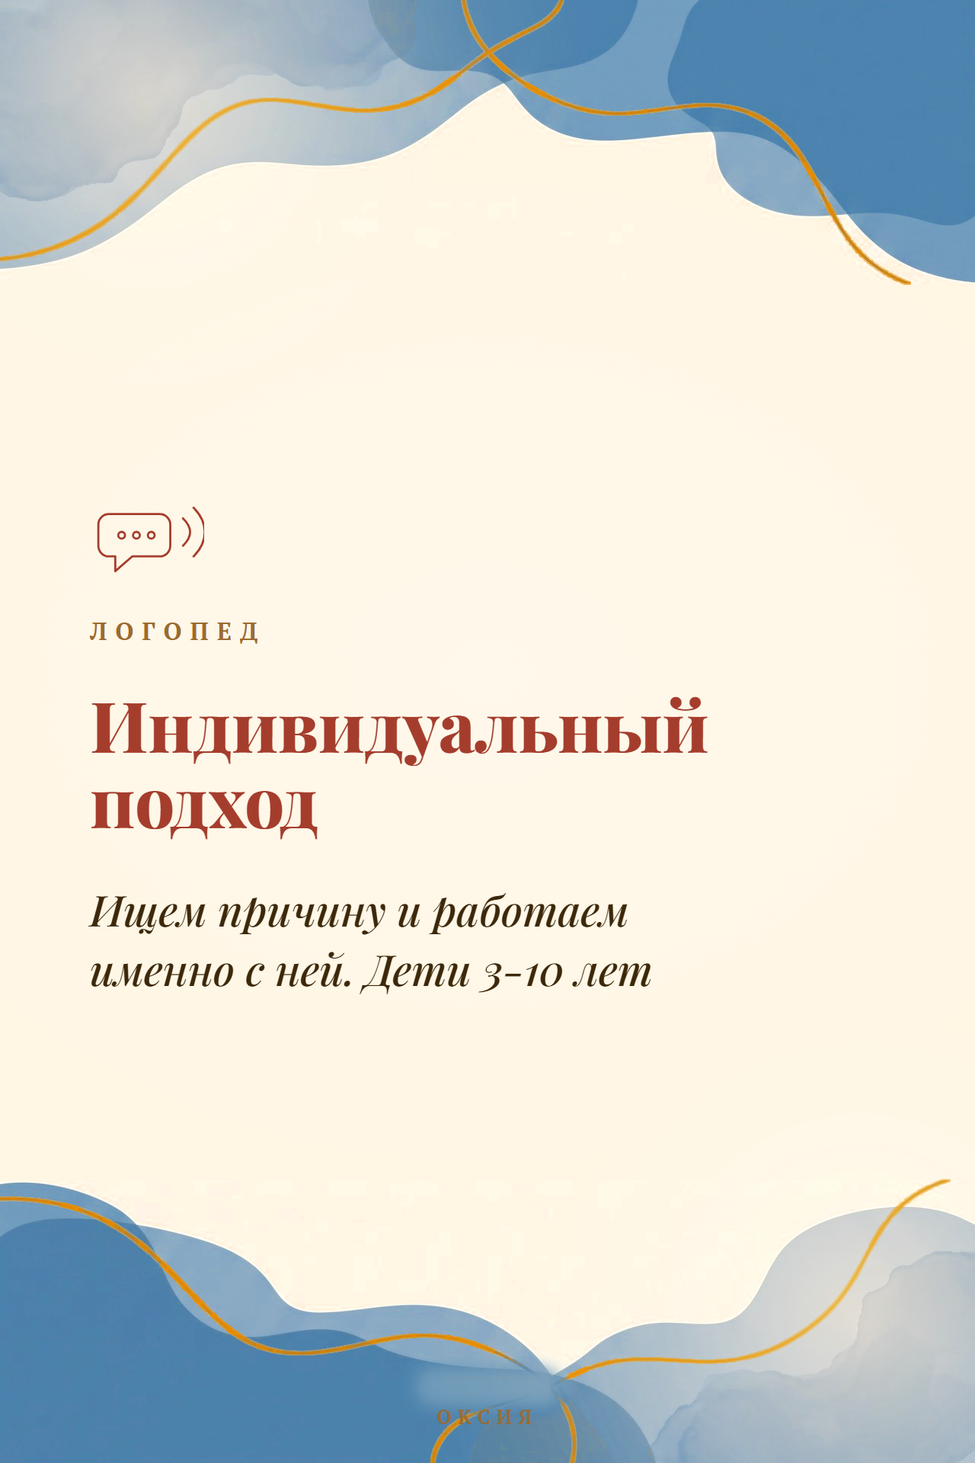
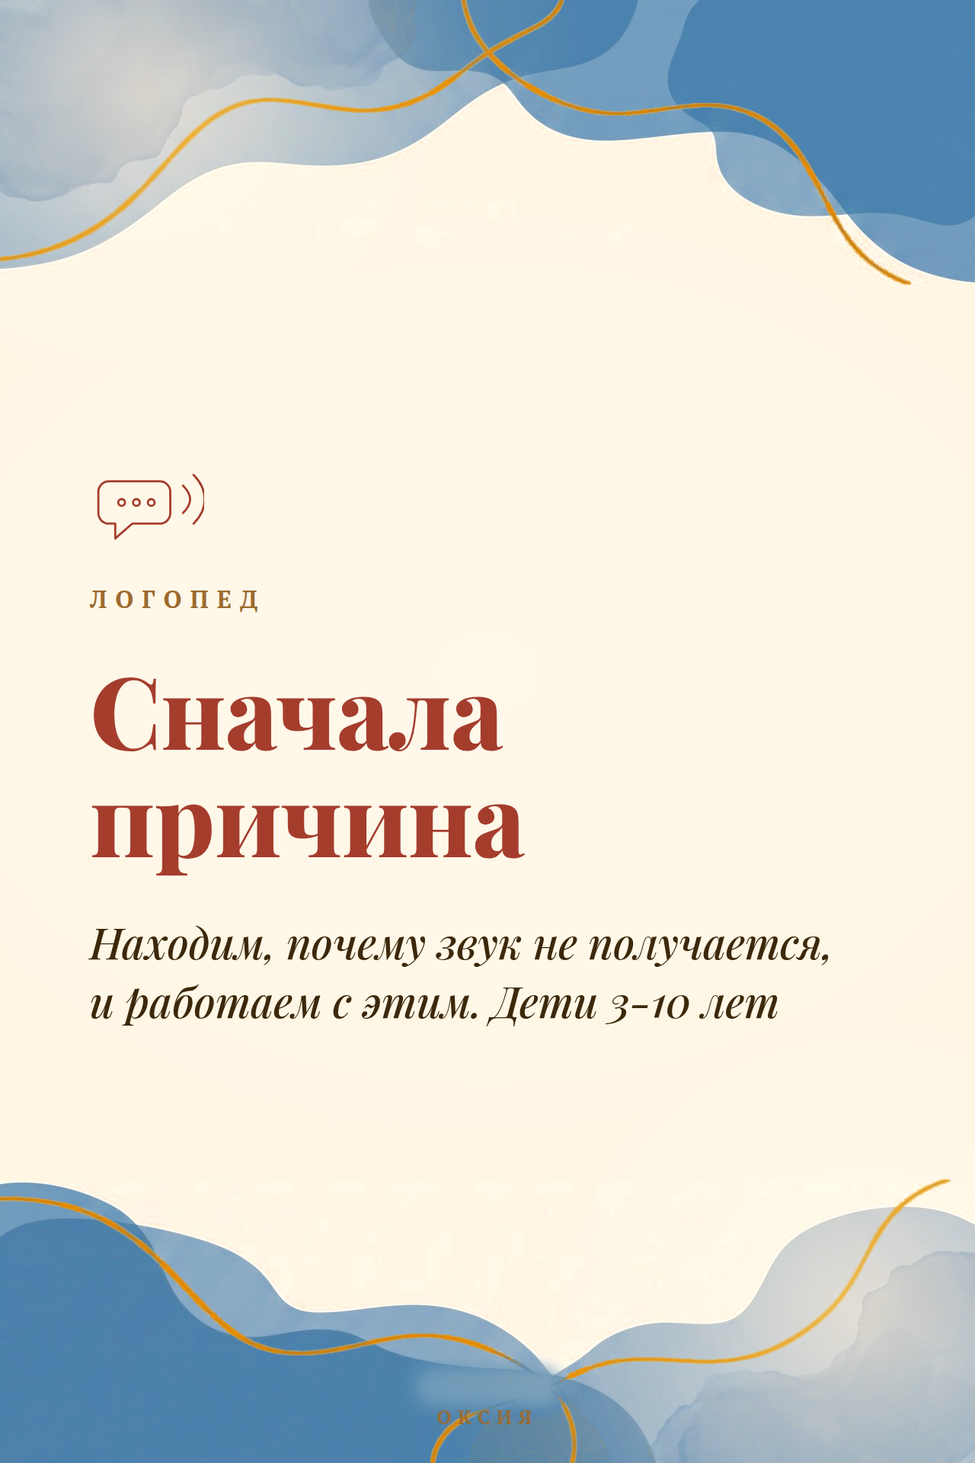
ОКСИЯ: правки Ольги: вопросы администратору, отзывы в карточке, прогресс вместо роста, слайд 44

Changed region(s): [[0.0938, 0.4688, 0.8438, 0.7188], [0.0938, 0.3438, 0.2812, 0.4375]]

diff --git a/final-2026-11-12/index.html b/final-2026-11-12/index.html
@@ -19,23 +19,24 @@ table{border-collapse:collapse;width:100%;background:var(--card);border-radius:1
 <div class="big">Готово к заливке. Скажите «заливай», и я заменю прайс и пересоздам 6 Историй в кабинете Яндекс Бизнеса.</div>
 <div class="cards">
 <div class="c"><b>60</b>слайдов вычитано, все просмотрены глазами</div>
-<div class="c"><b>11</b>слайдов исправлено (текст)</div>
+<div class="c"><b>12</b>слайдов исправлено (текст)</div>
 <div class="c"><b>10</b>товаров вычитано</div>
 <div class="c"><b>9</b>товаров исправлено (6-7 лет без правок)</div>
 </div>
 <p>Что искали: штампы («индивидуальный подход», «по-настоящему»), «не X, а Y», длинные тире, безличные обороты, канцелярит, висячие слова, фразы, которые живой человек так не скажет, и факты без источника. Цены, адрес, телефон и условия не менялись. Всё, что было словами Натальи (стоимость, продлёнка, «лучшие гимназии»), оставлено.</p>
-<h2>1. Истории: что поправлено</h2><p>Слева было, в центре стало. Остальные 49 слайдов прошли проверку без правок.</p>
+<h2>1. Истории: что поправлено</h2><p>Слева было, в центре стало. Остальные 48 слайдов прошли проверку без правок.</p>
 <div class="row"><div><div class="tag">Было · слайд 13</div><img src="img/before-13.jpg" alt=""></div><div><div class="tag">Стало</div><img src="img/after-13.jpg" alt=""></div><div><div class="tag">Семейные классы</div><p class="old"><del>И предметы по ФГОС: история</del></p><p class="new">Программа соответствует ФГОС, можно перейти в обычную школу</p><p>Фраза оборвалась: после удаления «церковнославянского» остался один предмет. Взяли факт из описания школы.</p></div></div>
 <div class="row"><div><div class="tag">Было · слайд 14</div><img src="img/before-14.jpg" alt=""></div><div><div class="tag">Стало</div><img src="img/after-14.jpg" alt=""></div><div><div class="tag">Семейные классы</div><p class="old"><del>Занимаемся в темпе, который подходит детям</del></p><p class="new">Даём время разобраться в своём темпе</p><p>Заголовок «У класса свой темп» повторялся в подписи. Теперь подпись говорит, что делает школа.</p></div></div>
 <div class="row"><div><div class="tag">Было · слайд 15</div><img src="img/before-15.jpg" alt=""></div><div><div class="tag">Стало</div><img src="img/after-15.jpg" alt=""></div><div><div class="tag">Семейные классы</div><p class="old"><del>Если что-то не понял, разбирают сразу же</del></p><p class="new">Если ребёнок что-то не понял, педагог разбирает это сразу</p><p>Безличное «разбирают», не было, кто действует.</p></div></div>
 <div class="row"><div><div class="tag">Было · слайд 28</div><img src="img/before-28.jpg" alt=""></div><div><div class="tag">Стало</div><img src="img/after-28.jpg" alt=""></div><div><div class="tag">Доп. занятия</div><p class="old"><del>обсуждаем книги, слышим и принимаем мнение каждого</del></p><p class="new">обсуждаем книги и спрашиваем, что думает каждый ребёнок</p><p>Канцелярит «слышим и принимаем мнение». Теперь действие, как в описании товара.</p></div></div>
 <div class="row"><div><div class="tag">Было · слайд 33</div><img src="img/before-33.jpg" alt=""></div><div><div class="tag">Стало</div><img src="img/after-33.jpg" alt=""></div><div><div class="tag">Педагоги</div><p class="old"><del>Индивидуальный подход. Ищем причину и работаем именно с ней</del></p><p class="new">Сначала причина. Находим, почему звук не получается, и работаем с этим</p><p>«Индивидуальный подход» в стоп-листе. Заголовок и подпись повторяли одно и то же.</p></div></div>
-<div class="row"><div><div class="tag">Было · слайд 34</div><img src="img/before-34.jpg" alt=""></div><div><div class="tag">Стало</div><img src="img/after-34.jpg" alt=""></div><div><div class="tag">Педагоги</div><p class="old"><del>Профессиональный тренер. Регулярные занятия с понятным прогрессом. От урока к уроку виден рост</del></p><p class="new">Рост виден от урока к уроку. Регулярные занятия с тренером и понятный прогресс</p><p>«Профессиональный» это оценка без факта; одна мысль была сказана дважды.</p></div></div>
-<div class="row"><div><div class="tag">Было · слайд 35</div><img src="img/before-35.jpg" alt=""></div><div><div class="tag">Стало</div><img src="img/after-35.jpg" alt=""></div><div><div class="tag">Педагоги</div><p class="old"><del>Один педагог — один предмет. У каждого своя специализация</del></p><p class="new">Один педагог, одно направление. Логопед работает с речью, тренер учит шахматам, репетитор разбирает школьные темы</p><p>Два длинных тире убраны; вместо общих слов «специализация» названо, что делает каждый.</p></div></div>
-<div class="row"><div><div class="tag">Было · слайд 36</div><img src="img/before-36.jpg" alt=""></div><div><div class="tag">Стало</div><img src="img/after-36.jpg" alt=""></div><div><div class="tag">Педагоги</div><p class="old"><del>Спросить можно напрямую. Пишете педагогу вашего ребёнка</del></p><p class="new">Задайте вопрос напрямую. Пишите педагогу вашего ребёнка</p><p>Безличное «спросить можно» и «пишете» без смысла приказа/совета.</p></div></div>
+<div class="row"><div><div class="tag">Было · слайд 34</div><img src="img/before-34.jpg" alt=""></div><div><div class="tag">Стало</div><img src="img/after-34.jpg" alt=""></div><div><div class="tag">Педагоги</div><p class="old"><del>Профессиональный тренер. Регулярные занятия с понятным прогрессом. От урока к уроку виден рост</del></p><p class="new">Прогресс виден от урока к уроку. Регулярные занятия с тренером и понятный прогресс</p><p>«Профессиональный» это оценка без факта; одна мысль была сказана дважды. «Рост» читался и как рост ребёнка в сантиметрах, заменено на «прогресс».</p></div></div>
+<div class="row"><div><div class="tag">Было · слайд 35</div><img src="img/before-35.jpg" alt=""></div><div><div class="tag">Стало</div><img src="img/after-35.jpg" alt=""></div><div><div class="tag">Педагоги</div><p class="old"><del>Один педагог — один предмет. У каждого своя специализация</del></p><p class="new">Один педагог, одно направление. Логопед ставит звуки, репетитор разбирает школьные темы, тренер учит просчитывать ходы</p><p>Два длинных тире убраны; вместо общих слов «специализация» названо, что делает каждый. «Тренер по шахматам учит шахматам» было пустой фразой.</p></div></div>
+<div class="row"><div><div class="tag">Было · слайд 36</div><img src="img/before-36.jpg" alt=""></div><div><div class="tag">Стало</div><img src="img/after-36.jpg" alt=""></div><div><div class="tag">Педагоги</div><p class="old"><del>Спросить можно напрямую. Пишете педагогу вашего ребёнка</del></p><p class="new">Остались вопросы? Задайте вопрос администратору</p><p>Родители пишут администратору, не педагогу: в слайде стояло «педагогу» из старого текста, это неверно.</p></div></div>
 <div class="row"><div><div class="tag">Было · слайд 37</div><img src="img/before-37.jpg" alt=""></div><div><div class="tag">Стало</div><img src="img/after-37.jpg" alt=""></div><div><div class="tag">Педагоги</div><p class="old"><del>Посмотреть занятие, пообщаться с педагогом и принять решение</del></p><p class="new">Посмотрите занятие, поговорите с педагогом и примите решение</p><p>Список инфинитивов превращён в обращение к родителю, «пообщаться» заменено.</p></div></div>
-<div class="row"><div><div class="tag">Было · слайд 38</div><img src="img/before-38.jpg" alt=""></div><div><div class="tag">Стало</div><img src="img/after-38.jpg" alt=""></div><div><div class="tag">Педагоги</div><p class="old"><del>23 живых отзыва от родителей, без накруток и ботов</del></p><p class="new">23 отзыва от родителей на карточке школы</p><p>Защитное «без накруток и ботов» возражение, которого никто не задавал. Число 23 проверяется перед заливкой.</p></div></div>
-<div class="row"><div><div class="tag">Было · слайд 44</div><img src="img/before-44.jpg" alt=""></div><div><div class="tag">Стало</div><img src="img/after-44.jpg" alt=""></div><div><div class="tag">Как проходят</div><p class="old"><del>Столько, сколько ребёнок сделает сам</del></p><p class="new">Столько, с чем ребёнок справится сам</p><p>Читалось как «сколько сделает» (количество). Теперь про посильный объём.</p></div></div>
+<div class="row"><div><div class="tag">Было · слайд 38</div><img src="img/before-38.jpg" alt=""></div><div><div class="tag">Стало</div><img src="img/after-38.jpg" alt=""></div><div><div class="tag">Педагоги</div><p class="old"><del>23 живых отзыва от родителей, без накруток и ботов</del></p><p class="new">23 отзыва от родителей в карточке школы</p><p>Защитное «без накруток и ботов» возражение, которого никто не задавал. Число 23 проверяется перед заливкой.</p></div></div>
+<div class="row"><div><div class="tag">Было · обложка</div><img src="img/before-cover-4.jpg" alt=""></div><div><div class="tag">Стало</div><img src="img/after-cover-4.jpg" alt=""></div><div><div class="tag">Педагоги (обложка)</div><p class="old"><del>На связи с родителями, вопрос можно задать напрямую. Отзывы родителей на карточке ОКСИИ</del></p><p class="new">Вопросы можно задать администратору. Отзывы родителей в карточке ОКСИИ</p><p>Согласовано со слайдом 36: вопросы идут администратору.</p></div></div>
+<div class="row"><div><div class="tag">Было · слайд 44</div><img src="img/before-44.jpg" alt=""></div><div><div class="tag">Стало</div><img src="img/after-44.jpg" alt=""></div><div><div class="tag">Как проходят</div><p class="old"><del>Столько, сколько ребёнок сделает сам</del></p><p class="new">Такой объём, с которым ребёнок справится сам</p><p>«Столько, с чем» грамматически неверно: «столько» про количество и не сочетается с «чем».</p></div></div>
 <h2>2. Описания товаров</h2><p>Лимиты Яндекса соблюдены: короткое описание до 250 знаков, полное до 3000. Порядок строк в файле уже обратный (флагман, Начальная школа, последней), потому что Яндекс переворачивает порядок при импорте.</p>
 <div class="p"><h3>Творческое чтение · 1100 ₽</h3><p class="why">Убрано: «не к обязанности» (противопоставление), «которых хочется приучить» (о ком речь)</p>
 <p><del>Интерес к чтению как к удовольствию, не к обязанности</del><br><ins>Интерес к чтению: книгу хочется открыть самому</ins></p>

diff --git a/story-preview/_build/slide-bright.html b/story-preview/_build/slide-bright.html
@@ -358,19 +358,19 @@ const S = {
 
 34:{ bg:'tb-bright-gold', accent:'var(--green-muted)', icon:I.blocks, isize:'132px', ds:'96px', html:`
   <div class="kick">Шахматы</div>
-  <h1 class="disp">Рост виден<br>от урока к уроку</h1>
+  <h1 class="disp">Прогресс виден<br>от урока к уроку</h1>
   <div class="cap">регулярные занятия с тренером<br>и понятный прогресс</div>` },
 
 35:{ bg:'tb-bright', accent:'var(--blue-muted)', icon:I.people, isize:'182px', ds:'112px', html:`
   <div class="kick">Специализация</div>
   <h1 class="disp">Один педагог,<br>одно направление</h1>
-  <div class="cap">логопед работает с речью, тренер учит шахматам,<br>репетитор разбирает школьные темы</div>` },
+  <div class="cap">логопед ставит звуки, репетитор разбирает<br>школьные темы, тренер учит просчитывать ходы</div>` },
 
 36:{ bg:'tb-bright-gold', accent:'var(--red-muted)', icon:I.phone, isize:'128px', ds:'116px', html:`
   <div class="kick">Связь с родителями</div>
-  <h1 class="disp">Задайте вопрос<br>напрямую</h1>
+  <h1 class="disp">Остались<br>вопросы?</h1>
   <div class="hair b"></div>
-  <div class="chip">Пишите педагогу<br>вашего ребёнка</div>` },
+  <div class="chip">Задайте вопрос<br>администратору</div>` },
 
 37:{ bg:'tb-bright-gold', align:'left', accent:'var(--red-muted)', icon:I.person, isize:'150px', ds:'126px', html:`
   <div class="kick">До оплаты</div>
@@ -380,7 +380,7 @@ const S = {
 38:{ bg:'tb-bright', accent:'var(--green-muted)', icon:I.bookcheck, isize:'150px', ds:'128px', html:`
   <div class="kick">Отзывы</div>
   <h1 class="disp">23 отзыва</h1>
-  <div class="cap">от родителей на карточке школы</div>` },
+  <div class="cap">от родителей в карточке школы</div>` },
 
 39:{ bg:'tb-bright-gold', align:'left', accent:'var(--blue-muted)', icon:I.steps, isize:'128px', ds:'140px', html:`
   <div class="kick">Первый шаг</div>
@@ -408,7 +408,7 @@ const S = {
 44:{ bg:'tb-bright-gold', accent:'var(--blue-muted)', icon:I.book, isize:'150px', ds:'138px', html:`
   <div class="kick">Домашние задания</div>
   <h1 class="disp">По возрасту,<br>по программе</h1>
-  <div class="lead">Столько, с чем ребёнок<br>справится сам</div>` },
+  <div class="lead">Такой объём, с которым<br>ребёнок справится сам</div>` },
 
 45:{ bg:'tb-bright', accent:'var(--blue-muted)', icon:I.phone, isize:'128px', ds:'114px', html:`
   <div class="kick">Родителям</div>

diff --git a/story-preview/_build/story-covers-bright.html b/story-preview/_build/story-covers-bright.html
@@ -108,8 +108,8 @@ const S = {
     accent:'var(--green-muted)', bg:'bg-tb-bright-gold.png' },
 
 4:{ title:'Педагоги, которые<br>выбрали РКШ', titleSize:'100px', sub:'у каждого своя специализация',
-    chip:'На связи с родителями,<br>вопрос можно задать напрямую',
-    bottom:{type:'facts', text:'отзывы родителей на карточке ОКСИИ'},
+    chip:'Вопросы можно задать<br>администратору',
+    bottom:{type:'facts', text:'отзывы родителей в карточке ОКСИИ'},
     accent:'var(--blue-muted)', bg:'bg-tb-bright.png' },
 
 5:{ title:'Как проходит<br>день в школе', titleSize:'118px', sub:'класс до 12 человек',
